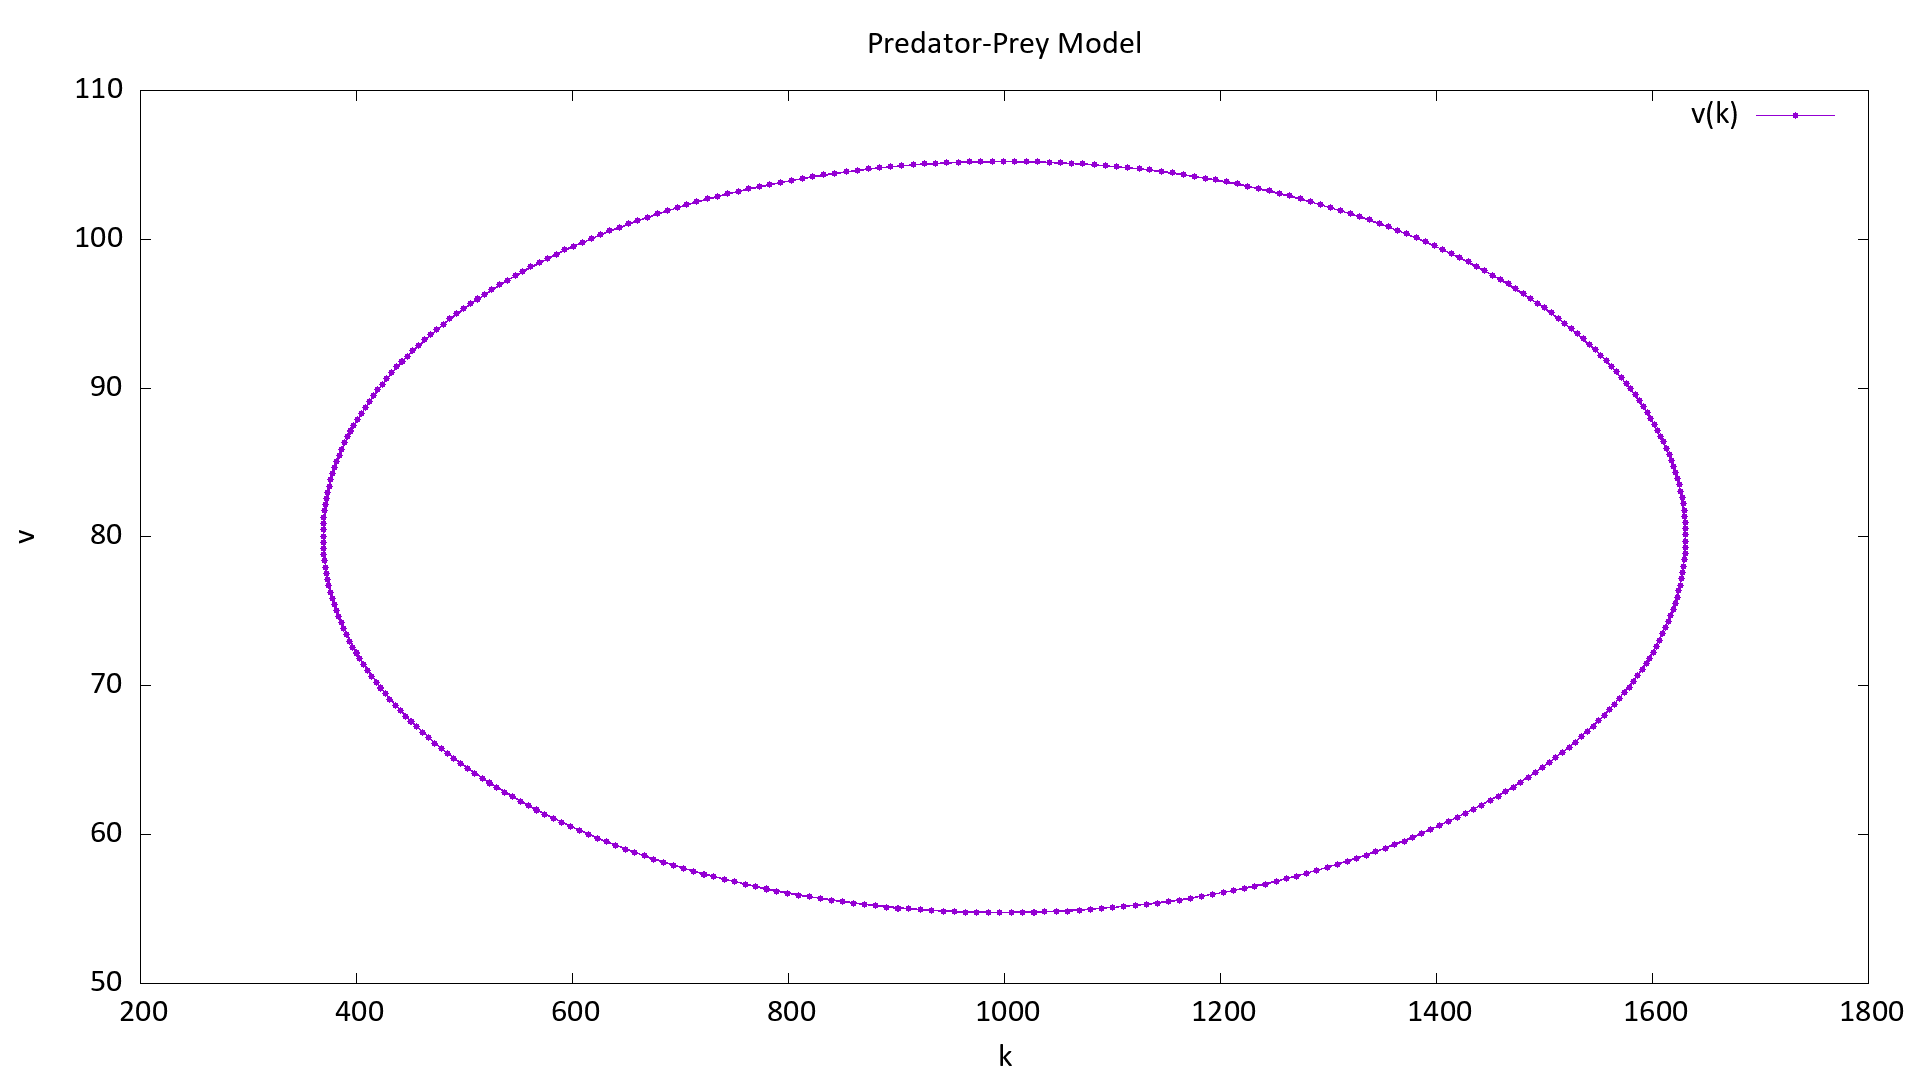
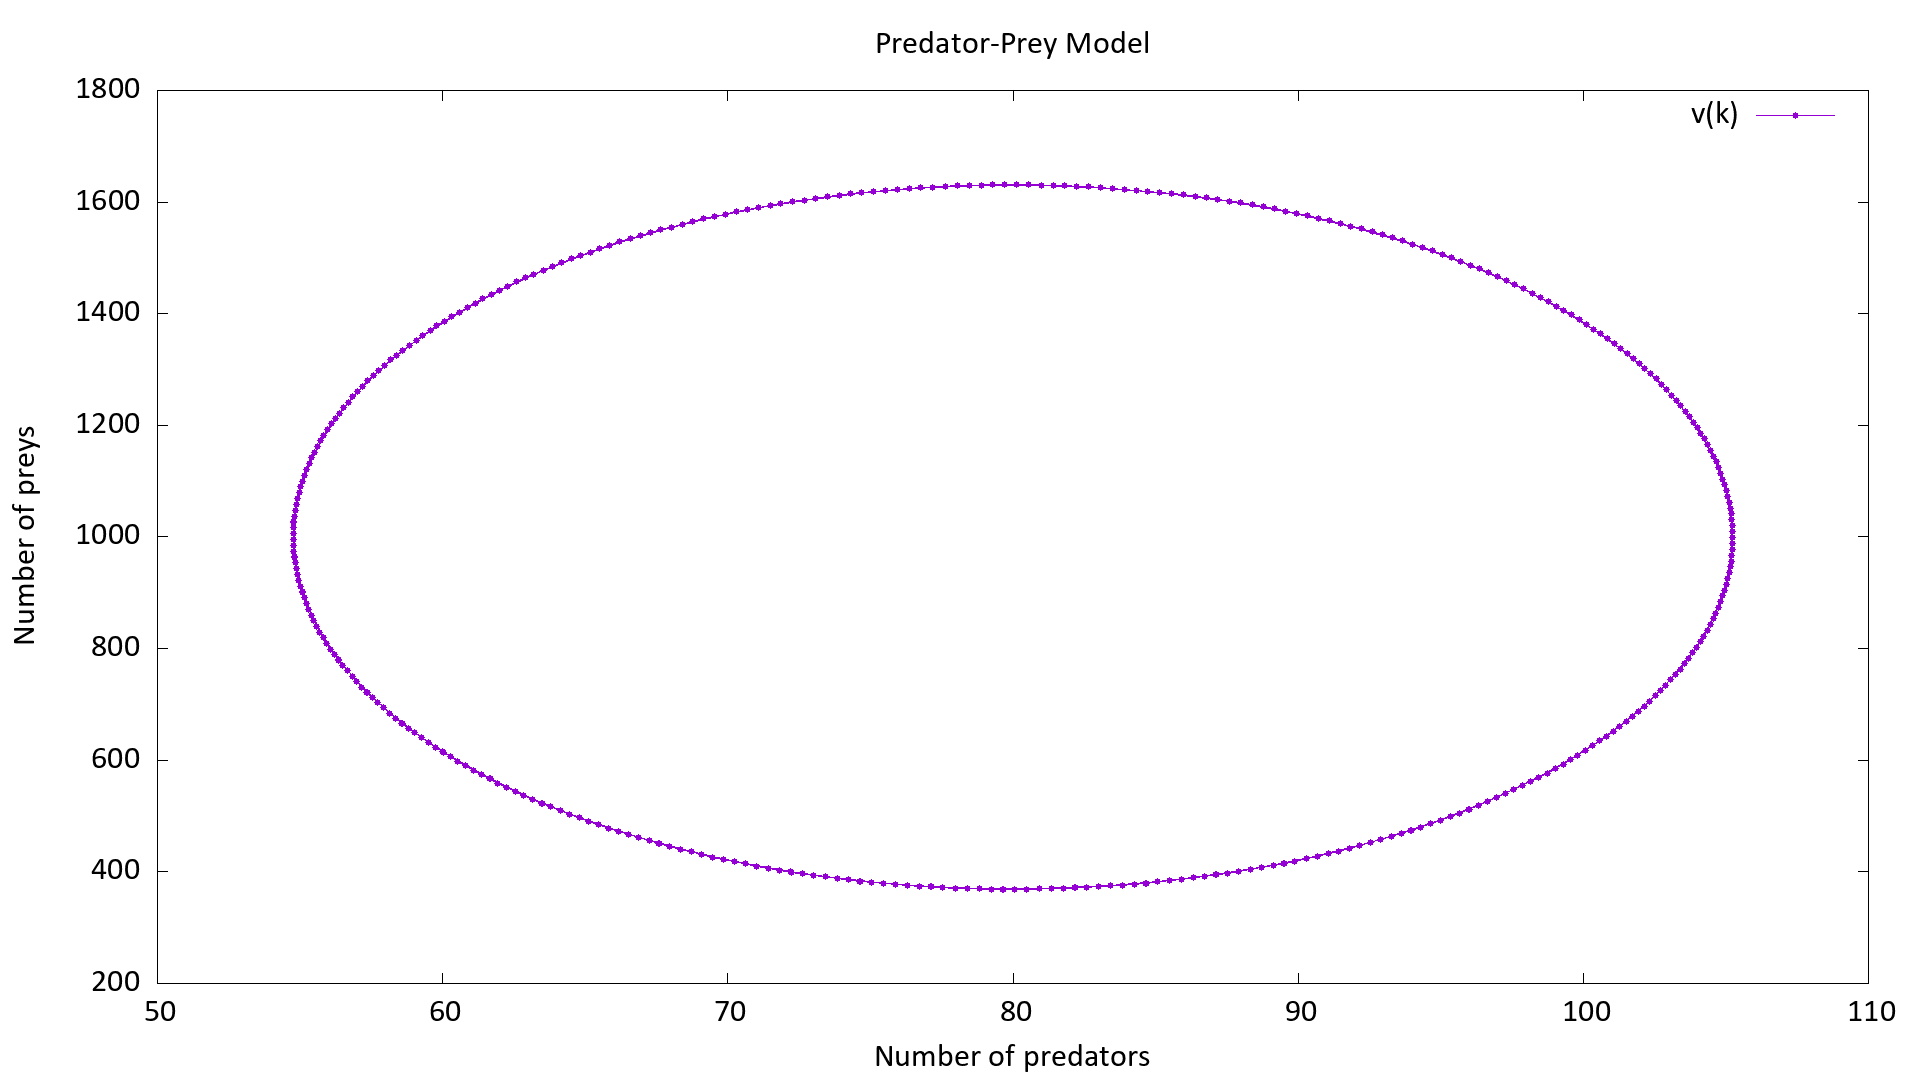
Updated labels

diff --git a/AGLA_joint_assignment_3/A.cpp b/AGLA_joint_assignment_3/A.cpp
@@ -66,6 +66,11 @@ int main(void)
     FILE *pipe = popen(GNUPLOT_NAME, "w");
 #endif
 #if USE_GNUPLOT
+    ofstream out("points.txt");
+    out << fixed << setprecision(4);
+    for (int i = 0; i <= N; i++)
+        out << T_arr[i] << '\t' << V_arr[i] << '\t' << K_arr[i] << '\n';
+    out.close();
     // Draw v(t), k(t)
     fprintf(pipe, "%s\n", "set terminal png size 1920, 1080 font \"Calibri,24\"");
     fprintf(pipe, "%s\n", "set output 'v_t__k_t.png'");
@@ -73,23 +78,21 @@ int main(void)
     fprintf(pipe, "%s\n", "set key noautotitle");
     fprintf(pipe, "%s\n", "set autoscale xy");
     fprintf(pipe, "%s\n", "set offsets 0.05, 0.05, 0.05, 0.05");
-    fprintf(pipe, "%s\n", "set xlabel \"t\"");
-    fprintf(pipe, "%s\n", "set ylabel \"v(t), k(t)\"");
-    ofstream out("v_t__k_t.txt");
-    for (int i = 0; i <= N; i++)
-        out << T_arr[i] << ' ' << V_arr[i] << ' ' << K_arr[i] << '\n';
-    out.close();
-    fprintf(pipe, "%s\n", "plot \"v_t__k_t.txt\" using 1:2 title 'v(t)' w linespoints pointtype 7, \"v_t__k_t.txt\" using 1:3 title 'k(t)' w linespoints pointtype 7");
+    fprintf(pipe, "%s\n", "set xlabel \"Time\"");
+    fprintf(pipe, "%s\n", "set ylabel \"No. of predators and preys\"");
+    fprintf(pipe, "%s\n", "plot \"points.txt\" u 1:2 t 'v(t)' w linespoints pointtype 7, \"points.txt\" u 1:3 t 'k(t)' w linespoints pointtype 7");
     fflush(pipe);
     // Draw v(k)
     fprintf(pipe, "%s\n", "set output 'v_k.png'");
-    fprintf(pipe, "%s\n", "set xlabel \"k\"");
-    fprintf(pipe, "%s\n", "set ylabel \"v\"");
-    out.open("v_k.txt");
-    for (int i = 0; i <= N; i++)
-        out << V_arr[i] << ' ' << K_arr[i] << '\n';
-    out.close();
-    fprintf(pipe, "%s\n", "plot \"v_k.txt\" using 1:2 title 'v(k)' w linespoints pointtype 7");
+    fprintf(pipe, "%s\n", "set xlabel \"Number of predators\"");
+    fprintf(pipe, "%s\n", "set ylabel \"Number of preys\"");
+    fprintf(pipe, "%s\n", "plot \"points.txt\" u 3:2 t 'v(k)' w linespoints pointtype 7");
+    fflush(pipe);
+    // Draw k(v)
+    fprintf(pipe, "%s\n", "set output 'k_v.png'");
+    fprintf(pipe, "%s\n", "set xlabel \"Number of preys\"");
+    fprintf(pipe, "%s\n", "set ylabel \"Number of predators\"");
+    fprintf(pipe, "%s\n", "plot \"points.txt\" u 2:3 t 'k(v)' w linespoints pointtype 7");
     fflush(pipe);
 #endif
 #if (defined(WIN32) || defined(_WIN32)) && USE_GNUPLOT
